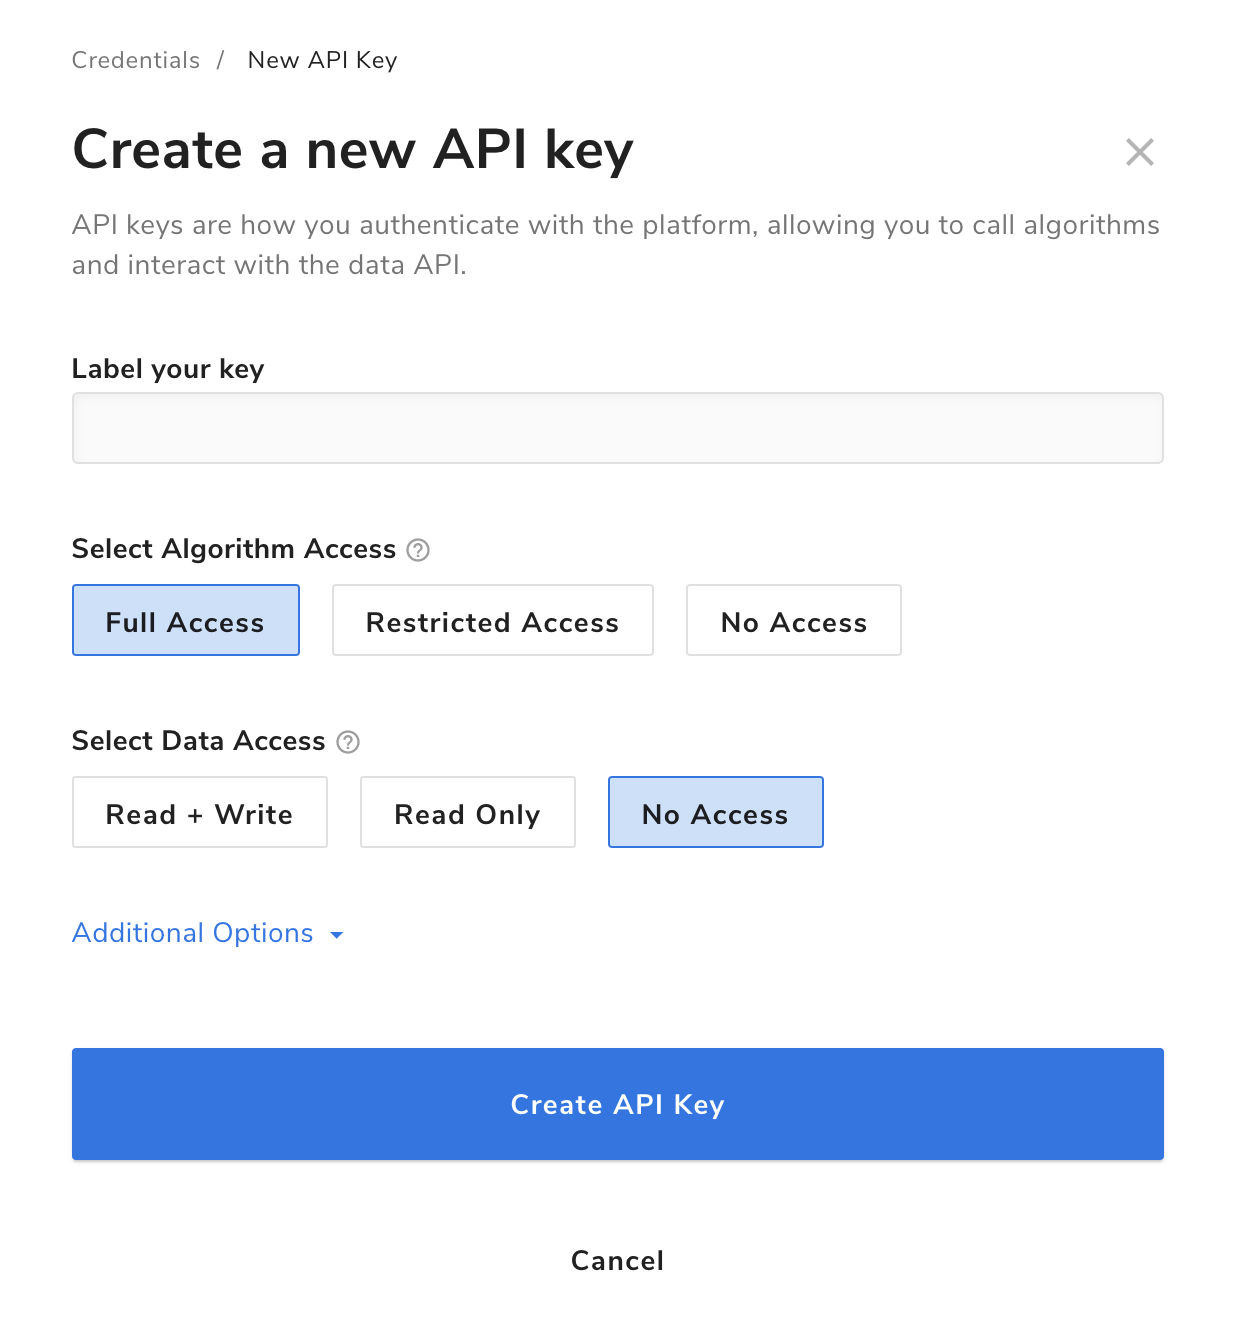
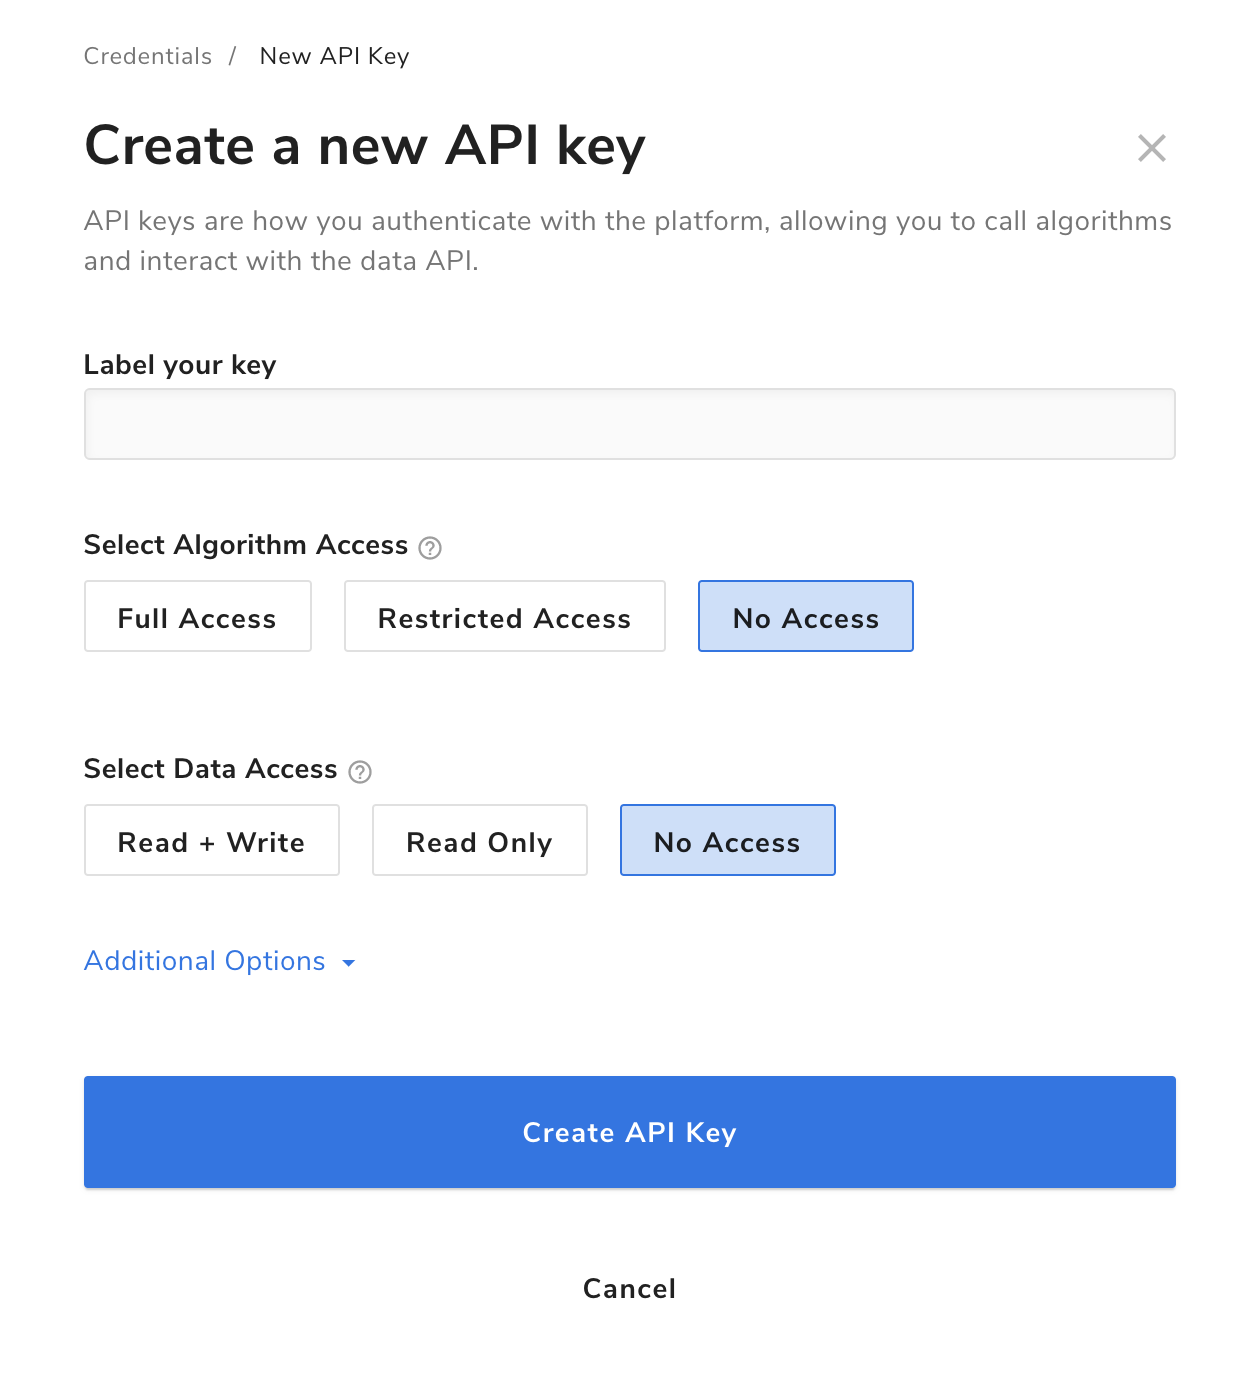
UXENG-2257 Update image and text after setting no access defaults

diff --git a/_pages/platform/customizing-api-keys.md b/_pages/platform/customizing-api-keys.md
@@ -48,17 +48,21 @@ Each API key can be customized to enable or restrict access depending on your ne
 
 ### Whitelist Algorithms
 
-One way you can restrict access is to whitelist specific algorithms that you want that API key to have access to.
+For security reasons, API keys can't call any algorithms on the platform by default. In order to create a key that can call algorithms, you'll have to explicitly add permissions by specifying the allowed owner name and algorithm name. Note that `algo://` is the prefix you'll need to use before the owner name and algorithm name. Below are a few examples:
 
-Note that `algo://` is the prefix you'll need to use before the owner name and algorithm name. 
+| ACL        | Key can call: |
+| :------------- | :------------- |
+|  `algo://*` | all algorithms user can access. |
+|  `algo://foo/*` | all algorithms by user `foo` user can access. |
+|  `algo://foo/bar/*`&nbsp;&nbsp; | only the `bar` algorithm by user `foo`. |
 
-Let's say that I have a project that has its own API key that I want to restrict to only call the algorithms I specify. I'll name my key after the project, then add the algorithms it can call. 
+<br>
 
-If I wanted to restrict this API key to the algorithm "sentiment_analysis". I'll format the alias like this: `algo://` + the algorithm owner + the algorithm name. Thus sentiment_analysis would end ups as `algo://demos/sentiment_analysis` (where in this case the username is demos):
+In the below screenshot, only the `sentiment_analysis` algorithm by user `demos` can be invoked by this key:
 
 <img src="{{site.cdnurl}}{{site.baseurl}}/images/post_images/api_keys/algo_restrictions_no_star.png" alt="caller origin" class="screenshot img-sm">
 
-By default, any key can call any algorithm on the platform. You can see in the below screenshot that under the Algorithm Access section, there is an entry `algo://*`. This is a wildcard that matches all of the algorithms. To make sure your key is restricted to calling only the algorithms you've specified, be sure to remove this wildcard entry by clicking on the "X" icon. In cases where an entry is a subset of another entry, and therefore redundant, a warning will appear letting you know that it will have no effect. Here you can see that `algo://demos/sentiment_analysis` has no effect due to the precence of `algo://*`
+In cases where an entry is a subset of another entry, and therefore redundant, a warning will appear letting you know that it will have no effect. Here you can see that `algo://demos/sentiment_analysis` has no effect due to the addition of `algo://*`, which already permits access to all `demos` algorithms.
 
 <img src="{{site.cdnurl}}{{site.baseurl}}/images/post_images/api_keys/algo_restrictions.png" alt="caller origin" class="screenshot img-sm">
 
